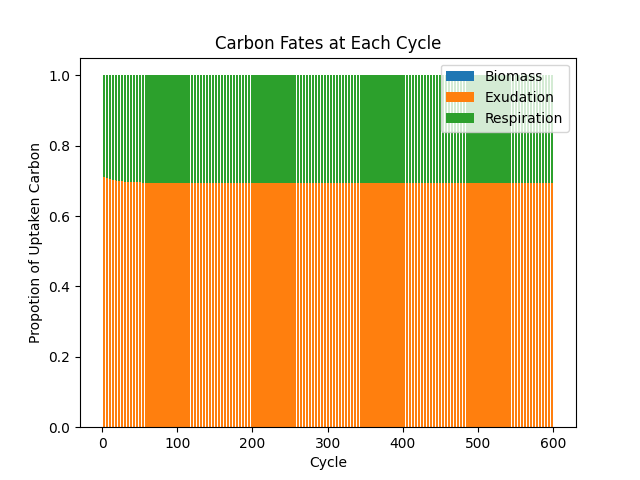
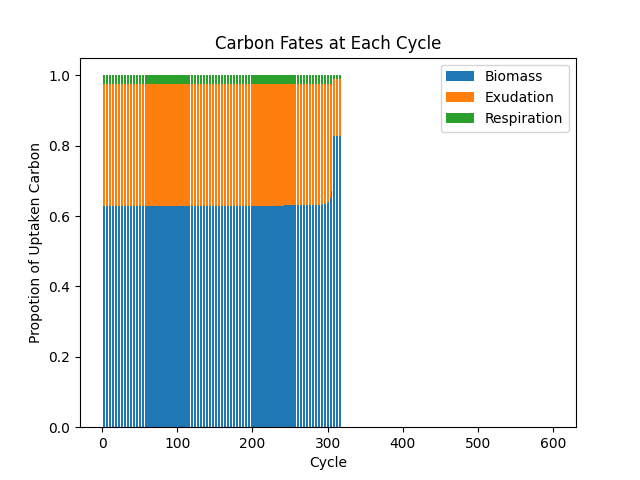
Plot carbon fates

diff --git a/mit1002_full/timecourse/plot_results.py b/mit1002_full/timecourse/plot_results.py
@@ -141,7 +141,7 @@ respiration = []
 exudation = []
 other = []
 for index, row in fluxes.iterrows():
-    cycle_resp, cycle_ex, cycle_other = extract_c_fates(row, c_ex_rxns)
+    cycle_resp, cycle_ex, cycle_other = extract_c_fates(row,c_ex_rxns, co2_ex_rxn='EX_cpd00011_e0')
     respiration.append(cycle_resp)
     exudation.append(cycle_ex)
     other.append(cycle_other)
